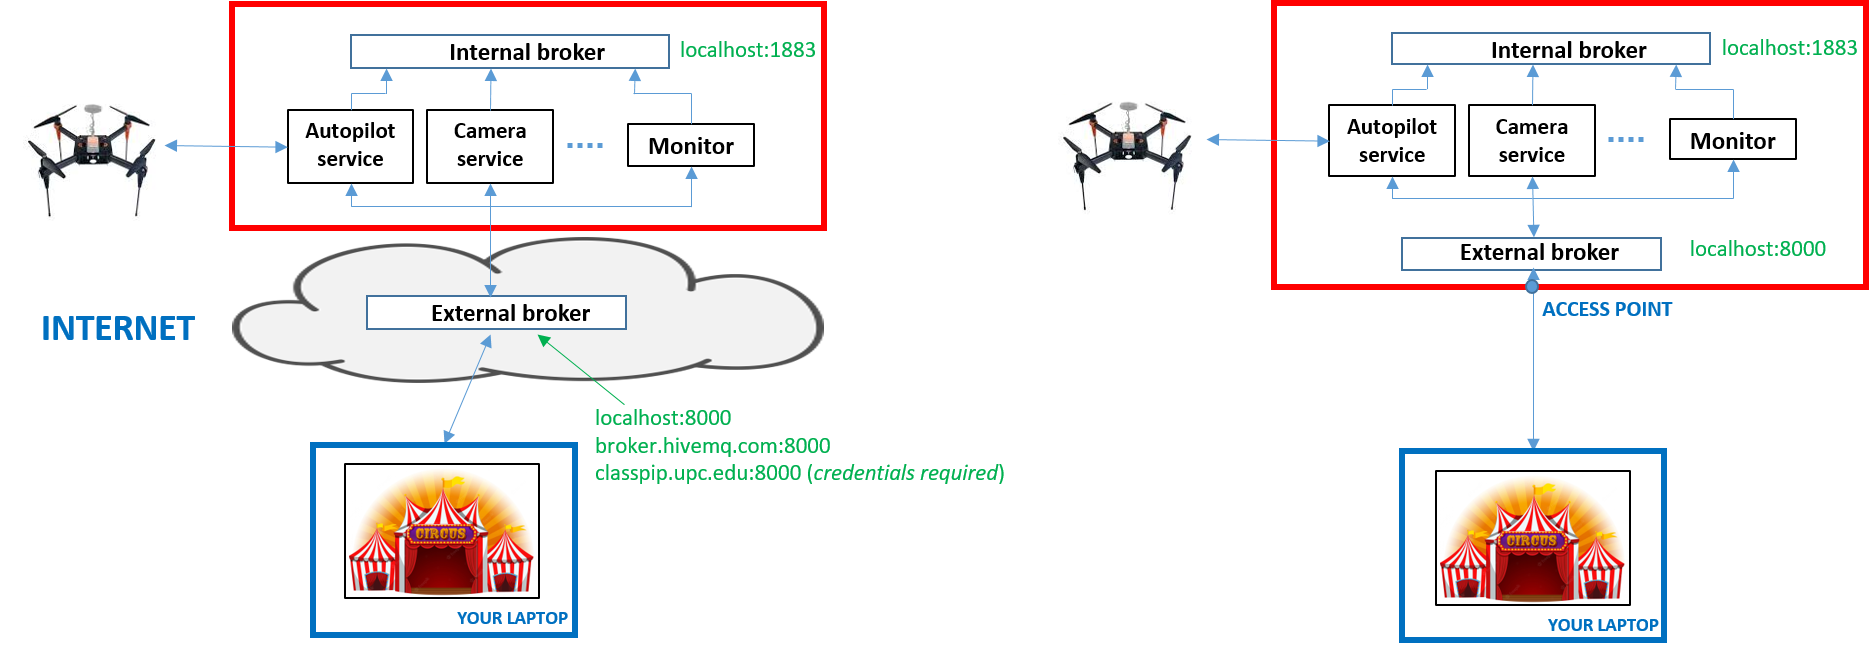
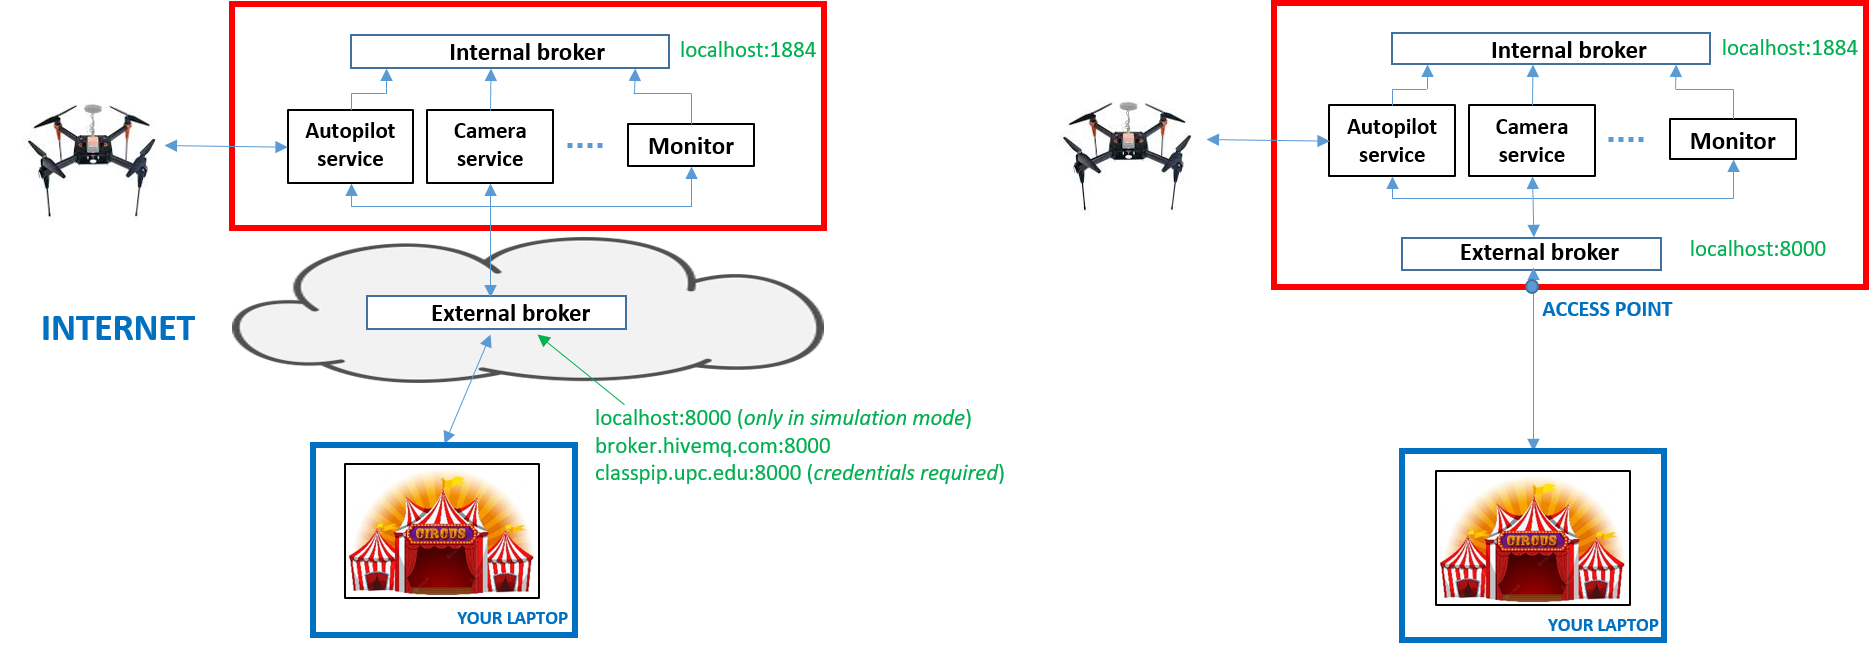
mas retoques

diff --git a/utils/DetectorClass.py b/utils/DetectorClass.py
@@ -305,14 +305,14 @@ class DetectorClass:
             self.map.mark_at_home()
             messagebox.showwarning("Success", "Ya estamos en casa", parent=self.master)
             self.return_home_button.grid_forget()
-            self.close_button2.grid(
+            '''self.close_button2.grid(
                 row=2,
                 column=0,
                 columnspan=3,
                 padx=5,
                 pady=5,
                 sticky=tk.N + tk.S + tk.E + tk.W,
-            )
+            )'''
 
             # return to the initial situation
             self.connect_button["bg"] = "#CC3636"
@@ -338,16 +338,31 @@ class DetectorClass:
         # does not allow to connect if the level of difficulty is not fixed
         if self.select_scenario_button["bg"] == "#367E18":
             if self.connection_mode == 'global':
-                broker_address = "broker.hivemq.com"
-                broker_port = 8000
+                # in global mode, the external broker must be running in internet
+                # and must operate with websockets
+                # there are several options:
+                # a public broker
+                external_broker_address = "broker.hivemq.com"
+                # our broker (that requires credentials)
+                #external_broker_address = "classpip.upc.edu"
+                # a mosquitto broker running at localhost (only in simulation mode)
+                #external_broker_address = "localhost"
+
             else:
-                broker_address = "localhost"
-                broker_port = 9001
+                # in local mode, the external broker will run always in localhost
+                # (either in production or simulation mode)
+                external_broker_address = "localhost"
+
+            # the external broker must run always in port 8000
+            external_broker_port = 8000
+
 
             self.client = mqtt.Client("Detector", transport="websockets")
             self.client.on_message = self.on_message
-            self.client.connect(broker_address, broker_port)
+            print ('voy a conectarme al broker en modo ', self.connection_mode)
+            self.client.connect(external_broker_address, external_broker_port)
             self.client.loop_start()
+            print('ya estoy conectado')
             self.close_button2.grid_forget()
             self.client.subscribe("autopilotService/droneCircus/#")
             self.client.publish("droneCircus/autopilotService/connectPlatform")
@@ -363,10 +378,12 @@ class DetectorClass:
         self.select_connection_mode_window.destroy()
         self.connect()
 
+
     def local_mode(self):
         self.connection_mode = 'local'
         self.select_connection_mode_window.destroy()
         self.connect()
+
     def select_connection_mode (self):
         self.select_connection_mode_window = tk.Toplevel(self.master)
         self.select_connection_mode_window.title("Select connection mode")
@@ -849,5 +866,4 @@ class DetectorClass:
     def return_home(self):
         self.returning = True
         self.direction = "Volviendo a casa"
-        self.client.subscribe("droneCircus/autopilotService/go", "South")
-        self.client.publish("RTL")
+        self.client.publish("droneCircus/autopilotService/returnToLaunch")
